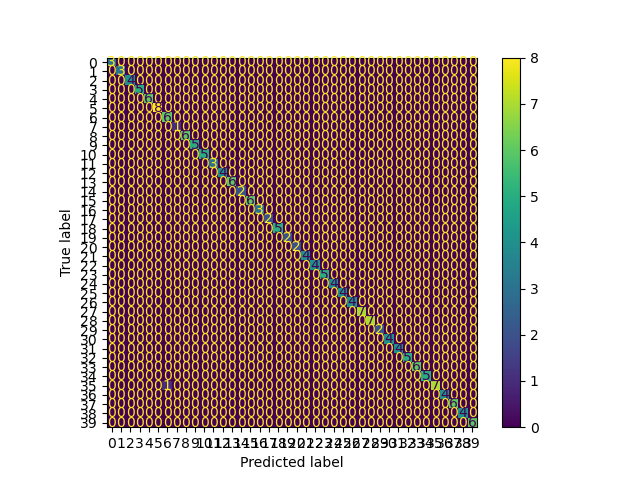
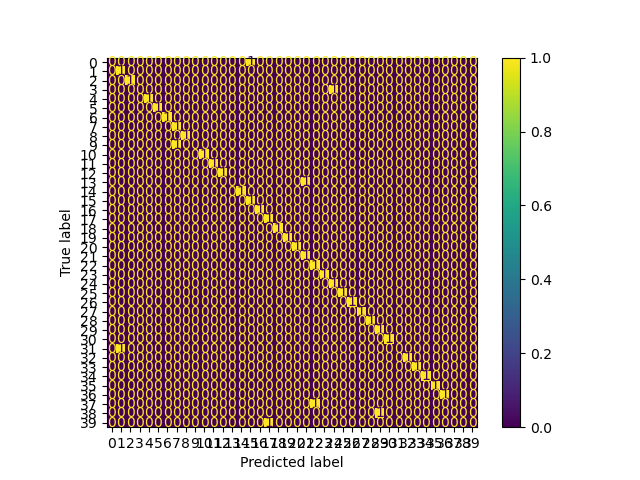
fix mnist and orl model to match report

diff --git a/script/stage_3_script/cifar-10.py b/script/stage_3_script/cifar-10.py
@@ -8,6 +8,7 @@ import torch
 from torch import nn
 import itertools
 import os
+from torchsummary import summary
 
 #################################################################################################################
 
@@ -63,6 +64,8 @@ for config in config_permutations:
     method_obj = Method_CNN_CIFAR10('CNN', '', result_obj.result_destination_folder_path, input_shape,
                             config['first_conv_hidden_units'], config['second_conv_hidden_units'] , config['third_conv_hidden_units'], output_shape, config['lr'], config['batch_size'],
                             config['loss_function'], config['optimizer'], max_epoch=max_epochs, output_layer_input_channels=output_layer_input_channels)
+
+    # summary(method_obj.cuda(), (3, 32, 32))
 
     setting_obj = Setting_KFold_CV('k fold cross validation', '')
     # setting_obj = Setting_Tra

diff --git a/code/stage_3_code/Method_CNN_MNIST.py b/code/stage_3_code/Method_CNN_MNIST.py
@@ -45,10 +45,12 @@ class Method_CNN_MNIST(Method_CNN, method, nn.Module):
             nn.Conv2d(in_channels=hidden_units,
                       out_channels=hidden_units,
                       kernel_size=5,
-                      stride=2,
-                      padding=2),
+                      stride=1,
+                      padding=1),
             nn.ReLU(),
-            nn.Conv2d(hidden_units, hidden_units, kernel_size=3, padding=1),
+            nn.Conv2d(hidden_units, hidden_units, kernel_size=5, padding=1),
+            nn.ReLU(),
+            nn.Conv2d(hidden_units, hidden_units, kernel_size=5, padding=1),
             nn.ReLU(),
             nn.MaxPool2d(kernel_size=2,
                          stride=2)

diff --git a/code/stage_3_code/Method_CNN_ORL.py b/code/stage_3_code/Method_CNN_ORL.py
@@ -41,7 +41,6 @@ class Method_CNN_ORL(Method_CNN, method, nn.Module):
         Method_CNN.__init__(self, mName, mDescription, save_dir, input_shape, hidden_units, output_shape, learning_rate,
                             batch_size, loss_function, optimizer, max_epoch, output_layer_input_channels)
 
-        # first conv is seperate so we can visualize the kernels later
         self.first_conv = nn.Conv2d(in_channels=input_shape,
                                     out_channels=hidden_units,
                                     kernel_size=3,

diff --git a/script/stage_3_script/mnist.py b/script/stage_3_script/mnist.py
@@ -21,7 +21,7 @@ torch.manual_seed(2)
 
 configurations = {
     'lr': [1e-3],
-    'batch_size': [1024],
+    'batch_size': [32],
     'loss_function': [nn.CrossEntropyLoss],
     'optimizer': [
         torch.optim.Adam
@@ -32,7 +32,7 @@ configurations = {
 # params
 input_shape = 1
 output_shape = 10
-output_layer_input_channels = 180
+output_layer_input_channels = 500
 max_epoch = 50
 #
 

diff --git a/script/stage_3_script/orl.py b/script/stage_3_script/orl.py
@@ -26,13 +26,13 @@ configurations = {
     'optimizer': [
         torch.optim.Adam
     ],
-    "hidden_units": [10],
+    "hidden_units": [20],
 }
 
 # params
 input_shape = 3
 output_shape = 40
-output_layer_input_channels = 720
+output_layer_input_channels = 1440
 max_epoch=50
 #
 
